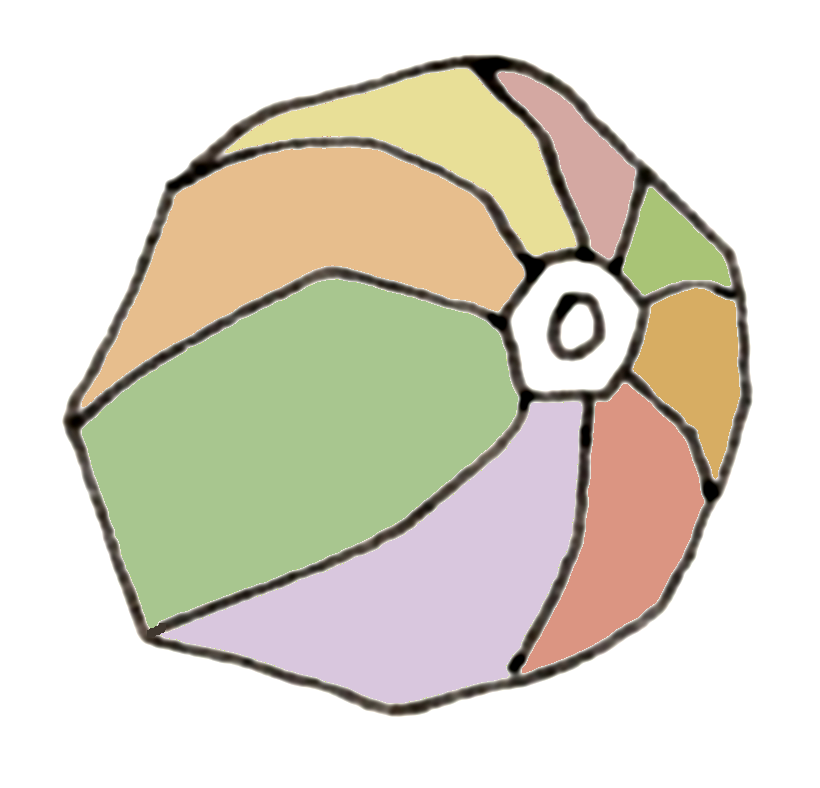
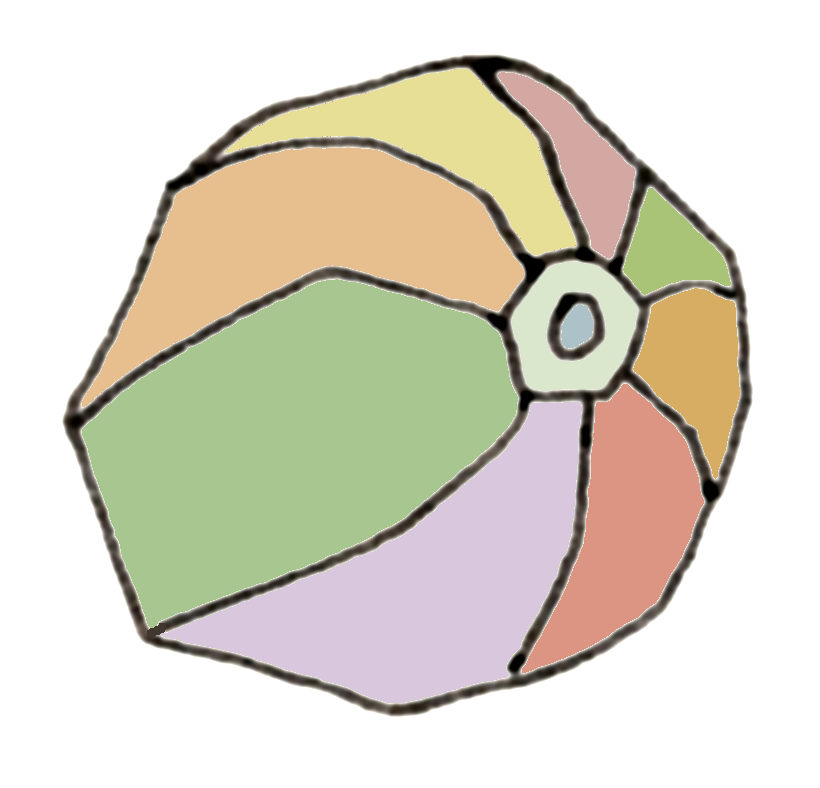
changed the colour of the ball

Changed region(s): [[0.6098, 0.335, 0.7927, 0.5178]]

diff --git a/index.html b/index.html
@@ -63,7 +63,7 @@
                     <img width="100px" src="images/icon.SaruTeto.png">
                 </a>
 
-                <div>Blog</div>
+                <div>Gallery</div>
 
             </li>
 
